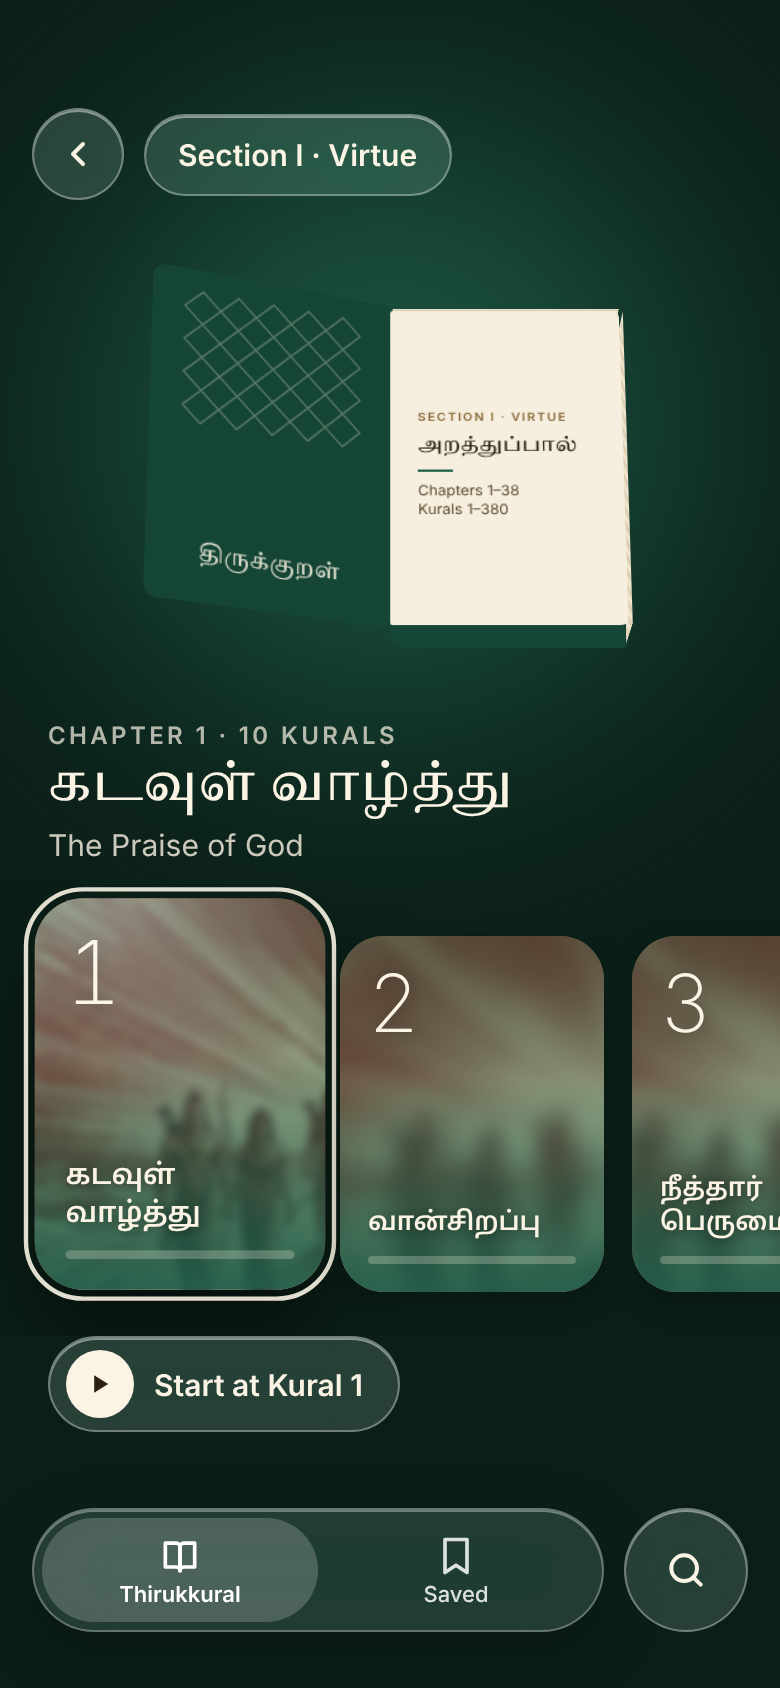
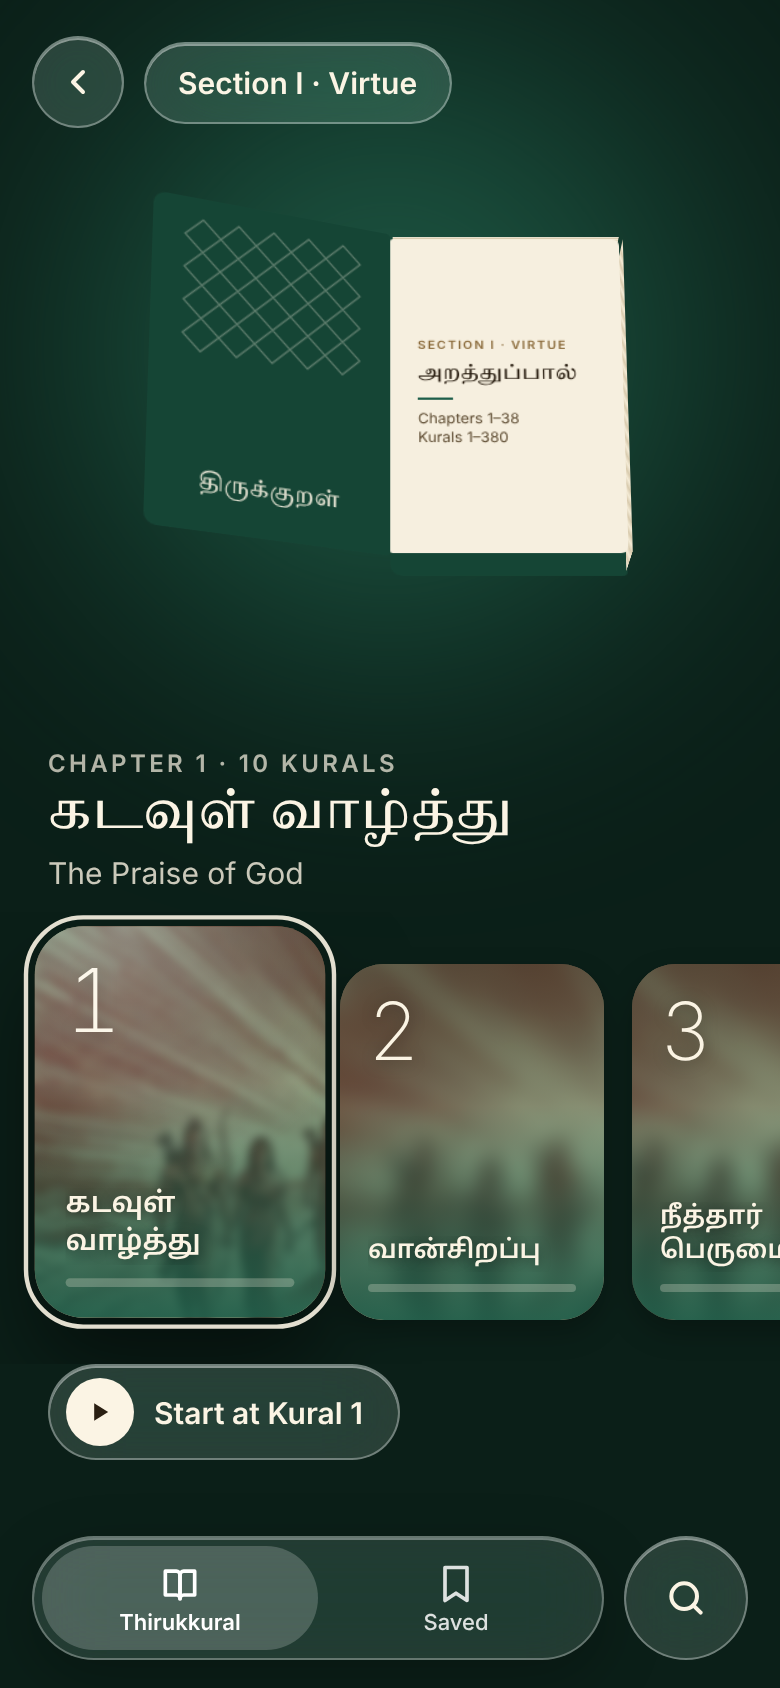
Fill the screen on phones
The layout was a fixed 390 x 844 frame scaled to fit, which shrank
and letterboxed the app in mobile browsers. Phones now get a
full-screen layout that adapts to the screen height, uses the space
under browser and system bars, and respects safe areas when
installed.

Claude-Session: https://claude.ai/code/session_01GfdDn2y6vWU67TAEQhXdpS

diff --git a/css/styles.css b/css/styles.css
@@ -1,4 +1,4 @@
-/* Thirukkural prototype. Fixed 390 x 844 phone frame, scaled to fit the window. */
+/* Thirukkural. A 390 x 844 frame on desktop; full screen on phones (see fit() in app.js). */
 :root {
   --deep: #211508;
   --glow: #C9822B;
@@ -17,7 +17,7 @@
 }
 
 * { box-sizing: border-box; }
-html, body { height: 100%; margin: 0; }
+html, body { height: 100%; margin: 0; overscroll-behavior: none; }
 body {
   display: flex; align-items: center; justify-content: center; overflow: hidden;
   background: var(--deep); transition: background-color .6s ease;
@@ -29,6 +29,7 @@ button:focus-visible { outline: 2px solid var(--ink); outline-offset: 3px; }
 [lang="ta"] { font-family: var(--ta-ui); }
 
 .phone {
+  --to: 0px; --bo: 0px; --sh: 0px;
   position: relative; flex: none; width: 390px; height: 844px; overflow: hidden;
   border-radius: 46px; background: var(--deep); transition: background-color .6s ease;
   box-shadow: 0 0 0 10px #050302, 0 40px 90px rgba(0, 0, 0, .55);
@@ -37,11 +38,11 @@ button:focus-visible { outline: 2px solid var(--ink); outline-offset: 3px; }
 .phone.edge { border-radius: 0; box-shadow: none; }
 
 .glow {
-  position: absolute; left: 45px; width: 300px; height: 300px; border-radius: 50%;
-  background: var(--glow); opacity: .5; filter: blur(70px); top: 250px;
+  position: absolute; left: calc(50% - 150px); width: 300px; height: 300px; border-radius: 50%;
+  background: var(--glow); opacity: .5; filter: blur(70px); top: calc(250px + var(--to) - var(--sh) * .5);
   transition: top .75s var(--spring), background-color .6s ease;
 }
-.is-open .glow { top: 60px; }
+.is-open .glow { top: calc(60px + var(--to)); }
 
 /* Glass */
 .glass {
@@ -58,15 +59,15 @@ button:focus-visible { outline: 2px solid var(--ink); outline-offset: 3px; }
 .kicker { font-size: 12px; font-weight: 600; letter-spacing: .14em; text-transform: uppercase; }
 
 /* Headers */
-.home-head { position: absolute; top: 60px; left: 24px; right: 24px; display: flex; flex-direction: column; gap: 4px; transition: opacity .35s ease; }
+.home-head { position: absolute; top: calc(60px + var(--to)); left: 24px; right: 24px; display: flex; flex-direction: column; gap: 4px; transition: opacity .35s ease; }
 .home-head h1 { margin: 0; font-family: var(--ta-display); font-weight: 400; font-size: 40px; line-height: 1.2; }
 .home-head p { margin: 0; font-size: 15px; color: var(--ink-2); }
-.open-head { position: absolute; top: 54px; left: 16px; right: 16px; display: flex; align-items: center; gap: 10px; opacity: 0; pointer-events: none; transition: opacity .35s ease; }
+.open-head { position: absolute; top: calc(54px + var(--to)); left: 16px; right: 16px; display: flex; align-items: center; gap: 10px; opacity: 0; pointer-events: none; transition: opacity .35s ease; }
 .is-open .home-head, .is-open .home-info { opacity: 0; pointer-events: none; }
 .is-open .open-head { opacity: 1; pointer-events: auto; }
 
 /* Stage and books */
-.stage { position: absolute; top: 160px; left: 0; right: 0; height: 470px; perspective: 1100px; perspective-origin: 50% 45%; }
+.stage { position: absolute; top: calc(160px + var(--to) - var(--sh) * .5); left: calc(50% - 195px); width: 390px; height: 470px; perspective: 1100px; perspective-origin: 50% 45%; }
 .shelf { position: absolute; inset: 0; transform-style: preserve-3d; }
 .book-shadow {
   position: absolute; left: 110px; top: 392px; width: 170px; height: 24px; border-radius: 50%;
@@ -124,7 +125,7 @@ button:focus-visible { outline: 2px solid var(--ink); outline-offset: 3px; }
 
 /* Home info */
 .home-info {
-  position: absolute; left: 24px; right: 24px; top: 640px; display: flex; align-items: flex-end;
+  position: absolute; left: 24px; right: 24px; bottom: calc(112px + var(--bo)); display: flex; align-items: flex-end;
   justify-content: space-between; gap: 16px; transition: opacity .35s ease;
 }
 .info-text { display: flex; flex-direction: column; gap: 2px; min-width: 0; }
@@ -140,7 +141,7 @@ button:focus-visible { outline: 2px solid var(--ink); outline-offset: 3px; }
 }
 
 /* Chapters */
-.chapters { position: absolute; left: 0; right: 0; top: 360px; display: flex; flex-direction: column; opacity: 0; pointer-events: none; transition: opacity .35s ease; }
+.chapters { position: absolute; left: 0; right: 0; bottom: calc(128px + var(--bo) - var(--sh) * .3); display: flex; flex-direction: column; opacity: 0; pointer-events: none; transition: opacity .35s ease; }
 .is-open .chapters { opacity: 1; pointer-events: auto; }
 .ch-info { display: flex; flex-direction: column; gap: 2px; padding: 0 24px; min-height: 82px; }
 .ch-info .kicker { color: rgba(251, 244, 228, .7); }
@@ -198,7 +199,7 @@ button:focus-visible { outline: 2px solid var(--ink); outline-offset: 3px; }
 .resume-icon { width: 34px; height: 34px; display: flex; align-items: center; justify-content: center; border-radius: 50%; background: var(--ink); color: #2A1F12; }
 
 /* Tab bar */
-.tabbar { position: absolute; left: 16px; right: 16px; bottom: 28px; display: flex; align-items: center; gap: 10px; z-index: 5; }
+.tabbar { position: absolute; left: 16px; right: 16px; bottom: calc(28px + var(--bo)); display: flex; align-items: center; gap: 10px; z-index: 5; }
 .tabs {
   flex: 1; height: 62px; display: grid; grid-template-columns: repeat(2, minmax(0, 1fr)); align-items: center;
   padding: 4px; border-radius: 999px; border-color: rgba(255, 255, 255, .3); background: rgba(255, 255, 255, .12);
@@ -221,17 +222,17 @@ button:focus-visible { outline: 2px solid var(--ink); outline-offset: 3px; }
 .reader.out { opacity: 0; transform: scale(.86) translateY(-30px); transition: opacity .38s ease-in, transform .38s ease-in, visibility 0s linear .38s; }
 .r-stage { position: absolute; inset: 0; touch-action: none; user-select: none; -webkit-user-select: none; cursor: grab; }
 .r-stage.dragging { cursor: grabbing; }
-.r-track { position: absolute; left: 0; top: 0; width: 390px; transition: transform .65s var(--spring-soft); }
+.r-track { position: absolute; left: 0; top: 0; width: 100%; transition: transform .65s var(--spring-soft); }
 .r-track.dragging { transition: none; }
-.page { position: relative; width: 390px; height: 844px; overflow: hidden; background: var(--ground); }
+.page { position: relative; width: 100%; height: var(--ph, 844px); overflow: hidden; background: var(--ground); }
 .page .bg {
-  position: absolute; left: -40px; top: -40px; width: 470px; height: 924px; max-width: none; object-fit: cover;
+  position: absolute; left: -40px; top: -40px; width: calc(100% + 80px); height: calc(100% + 80px); max-width: none; object-fit: cover;
   filter: blur(9px) saturate(1.2); opacity: .7; transform: scale(1.12); transition: transform .8s ease;
 }
 .page.active .bg { transform: scale(1); }
 .page .scrim { position: absolute; inset: 0; background: linear-gradient(180deg, rgba(0, 0, 0, .25) 0%, rgba(0, 0, 0, .4) 35%, var(--ground) 82%); }
 .page-text {
-  position: absolute; left: 28px; width: 272px; bottom: 76px; display: flex; flex-direction: column; gap: 14px;
+  position: absolute; left: 28px; right: 90px; max-width: 300px; bottom: calc(76px + var(--bo)); display: flex; flex-direction: column; gap: 14px;
   transform: translateY(40px); opacity: 0; transition: transform .7s var(--spring-soft) .08s, opacity .4s ease .08s;
 }
 .page.active .page-text { transform: none; opacity: 1; }
@@ -258,17 +259,17 @@ button:focus-visible { outline: 2px solid var(--ink); outline-offset: 3px; }
 .study .translit { display: none; }
 .meaning { margin: 0; font-size: 18px; line-height: 1.35; font-weight: 600; }
 
-.r-head { position: absolute; top: 52px; left: 16px; right: 16px; display: flex; align-items: center; gap: 12px; pointer-events: none; }
+.r-head { position: absolute; top: calc(52px + var(--to)); left: 16px; right: 16px; display: flex; align-items: center; gap: 12px; pointer-events: none; }
 .r-head .round { pointer-events: auto; }
 .r-title { display: flex; flex-direction: column; }
 .r-title [lang="ta"] { font-size: 15px; font-weight: 600; }
 .r-title span + span { font-size: 12px; color: var(--ink-2); }
-.r-dots { position: absolute; left: 4px; top: 170px; display: flex; flex-direction: column; }
+.r-dots { position: absolute; left: 4px; top: calc(170px + var(--to) - var(--sh) * .5); display: flex; flex-direction: column; }
 .r-dots button { width: 20px; height: 24px; padding: 0; border: 0; background: transparent; cursor: pointer; display: flex; align-items: center; justify-content: center; }
 .r-dots span { display: block; width: 4px; height: 5px; border-radius: 2px; background: rgba(251, 244, 228, .28); transition: height .45s var(--spring), background-color .25s ease; }
 .r-dots .read span { background: rgba(251, 244, 228, .6); }
 .r-dots .cur span { height: 20px; background: var(--ink); }
-.r-actions { position: absolute; right: 12px; bottom: 82px; display: flex; flex-direction: column; align-items: center; gap: 14px; }
+.r-actions { position: absolute; right: 12px; bottom: calc(82px + var(--bo)); display: flex; flex-direction: column; align-items: center; gap: 14px; }
 .act { width: 52px; height: 52px; display: flex; align-items: center; justify-content: center; border-radius: 50%; cursor: pointer; padding: 0; transition: transform .45s var(--spring), background-color .2s ease; }
 .act.play { border: 0; background: var(--ink); color: #2A1F12; }
 .act.play.on { transform: scale(1.08); }
@@ -277,12 +278,12 @@ button:focus-visible { outline: 2px solid var(--ink); outline-offset: 3px; }
 #r-save[aria-pressed="true"] svg { fill: currentColor; }
 .ta-glyph { font-size: 18px; font-weight: 600; }
 .r-next {
-  position: absolute; left: 50%; bottom: 22px; transform: translateX(-50%); min-height: 44px; padding: 0 14px;
+  position: absolute; left: 50%; bottom: calc(22px + var(--bo) * .7); transform: translateX(-50%); min-height: 44px; padding: 0 14px;
   display: flex; align-items: center; gap: 6px; border: 0; background: transparent; color: rgba(251, 244, 228, .7);
   font-size: 13px; font-weight: 600; white-space: nowrap; cursor: pointer;
 }
 .pull-hint {
-  position: absolute; left: 50%; bottom: 74px; transform: translateX(-50%); padding: 10px 14px; border-radius: 999px;
+  position: absolute; left: 50%; bottom: calc(74px + var(--bo)); transform: translateX(-50%); padding: 10px 14px; border-radius: 999px;
   background: rgba(255, 255, 255, .16); border: 1px solid rgba(255, 255, 255, .3);
   -webkit-backdrop-filter: blur(20px); backdrop-filter: blur(20px);
   font-size: 13px; font-weight: 600; white-space: nowrap; opacity: 0; pointer-events: none; z-index: 3;
@@ -290,7 +291,7 @@ button:focus-visible { outline: 2px solid var(--ink); outline-offset: 3px; }
 
 /* Word sheet */
 .sheet {
-  position: absolute; left: 12px; right: 12px; bottom: 16px; z-index: 30; padding: 18px 20px 20px; border-radius: 30px;
+  position: absolute; left: 12px; right: 12px; bottom: calc(16px + var(--bo) * .5); z-index: 30; padding: 18px 20px 20px; border-radius: 30px;
   border: 1px solid rgba(255, 255, 255, .28); background: rgba(24, 16, 7, .88);
   -webkit-backdrop-filter: blur(28px) saturate(180%); backdrop-filter: blur(28px) saturate(180%);
   box-shadow: inset 0 1px 0 rgba(255, 255, 255, .25), 0 -10px 40px rgba(0, 0, 0, .45);
@@ -312,7 +313,7 @@ button:focus-visible { outline: 2px solid var(--ink); outline-offset: 3px; }
 
 /* Toast */
 .toast {
-  position: absolute; left: 50%; top: 110px; z-index: 50; transform: translate(-50%, -12px); max-width: 320px;
+  position: absolute; left: 50%; top: calc(110px + var(--to)); z-index: 50; transform: translate(-50%, -12px); max-width: 320px;
   padding: 12px 16px; border-radius: 18px; background: rgba(20, 14, 8, .9); border: 1px solid rgba(255, 255, 255, .2);
   font-size: 14px; font-weight: 500; text-align: center; opacity: 0; pointer-events: none;
   transition: opacity .25s ease, transform .4s var(--spring);

diff --git a/js/app.js b/js/app.js
@@ -22,13 +22,43 @@
   const savedSet = new Set(store.get('saved', []));
   const lastChapter = store.get('last', {});
 
-  /* ---------- Fit the 390 x 844 frame to the window ---------- */
+  /* ---------- Fit the layout to the screen ----------
+     Desktop: a 390 x 844 phone frame, scaled down if the window is small.
+     Phone: fill the screen edge to edge. The layout is 390 wide and as tall as the screen,
+     using the space under the status bar and home indicator when there is no system UI there. */
   let scale = 1;
+  let PAGE_H = 844;
+  let onFit = null;
+  const probe = document.createElement('div');
+  probe.style.cssText = 'position:fixed;visibility:hidden;pointer-events:none;padding-top:env(safe-area-inset-top);padding-bottom:env(safe-area-inset-bottom)';
+  document.body.appendChild(probe);
   function fit() {
     const w = window.innerWidth, h = window.innerHeight;
-    scale = Math.min(1, w / 390, h / 844);
+    const st = getComputedStyle(probe);
+    const satPx = parseFloat(st.paddingTop) || 0, sabPx = parseFloat(st.paddingBottom) || 0;
+    const mobile = w < 600;
+    let W = 390, H = 844, to = 0, bo = 0, sh = 0;
+    if (mobile) {
+      for (let k = 0; k < 2; k++) {
+        to = Math.max(-36, satPx / scale - 44);
+        bo = Math.max(-14, sabPx / scale - 34);
+        scale = Math.min(w / 390, h / (764 + to + bo));
+      }
+      W = w / scale; H = h / scale;
+      sh = Math.max(0, 844 - (H - to - bo));
+    } else {
+      scale = Math.min(1, w / 390, h / 844);
+    }
+    PAGE_H = H;
+    phone.style.width = W + 'px';
+    phone.style.height = H + 'px';
+    phone.style.setProperty('--ph', H + 'px');
+    phone.style.setProperty('--to', to.toFixed(1) + 'px');
+    phone.style.setProperty('--bo', bo.toFixed(1) + 'px');
+    phone.style.setProperty('--sh', sh.toFixed(1) + 'px');
     phone.style.transform = 'scale(' + scale + ')';
-    phone.classList.toggle('edge', w < 500);
+    phone.classList.toggle('edge', mobile);
+    if (onFit) onFit();
   }
   window.addEventListener('resize', fit);
   fit();
@@ -298,8 +328,13 @@
   const track = $('#r-track');
   const rStage = $('#r-stage');
   const sheet = $('#sheet');
+  onFit = () => {
+    const n = track.children.length;
+    if (!n) return;
+    track.style.height = n * PAGE_H + 'px';
+    track.style.transform = 'translateY(' + (-R.idx * PAGE_H) + 'px)';
+  };
   const R = { open: false, ch: null, idx: 0, sel: null, study: false, playing: false, wheelLock: false };
-  const PAGE_H = 844;
   const chapterCache = new Map();
 
   async function loadChapter(n) {

diff --git a/sw.js b/sw.js
@@ -1,5 +1,5 @@
 /* Offline support. Bump VERSION whenever app files change. */
-const VERSION = 'kural-v3';
+const VERSION = 'kural-v4';
 const SHELL = [
   './',
   'index.html',
